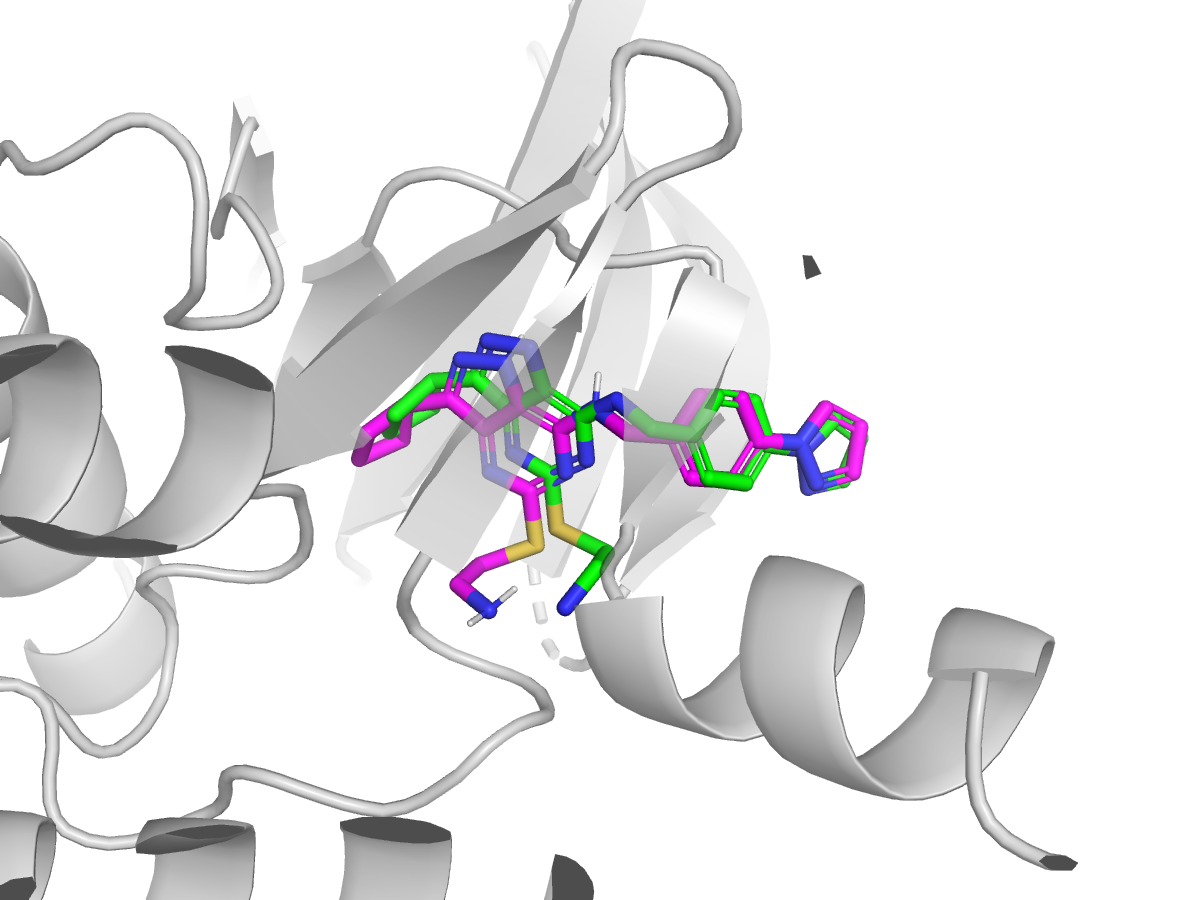
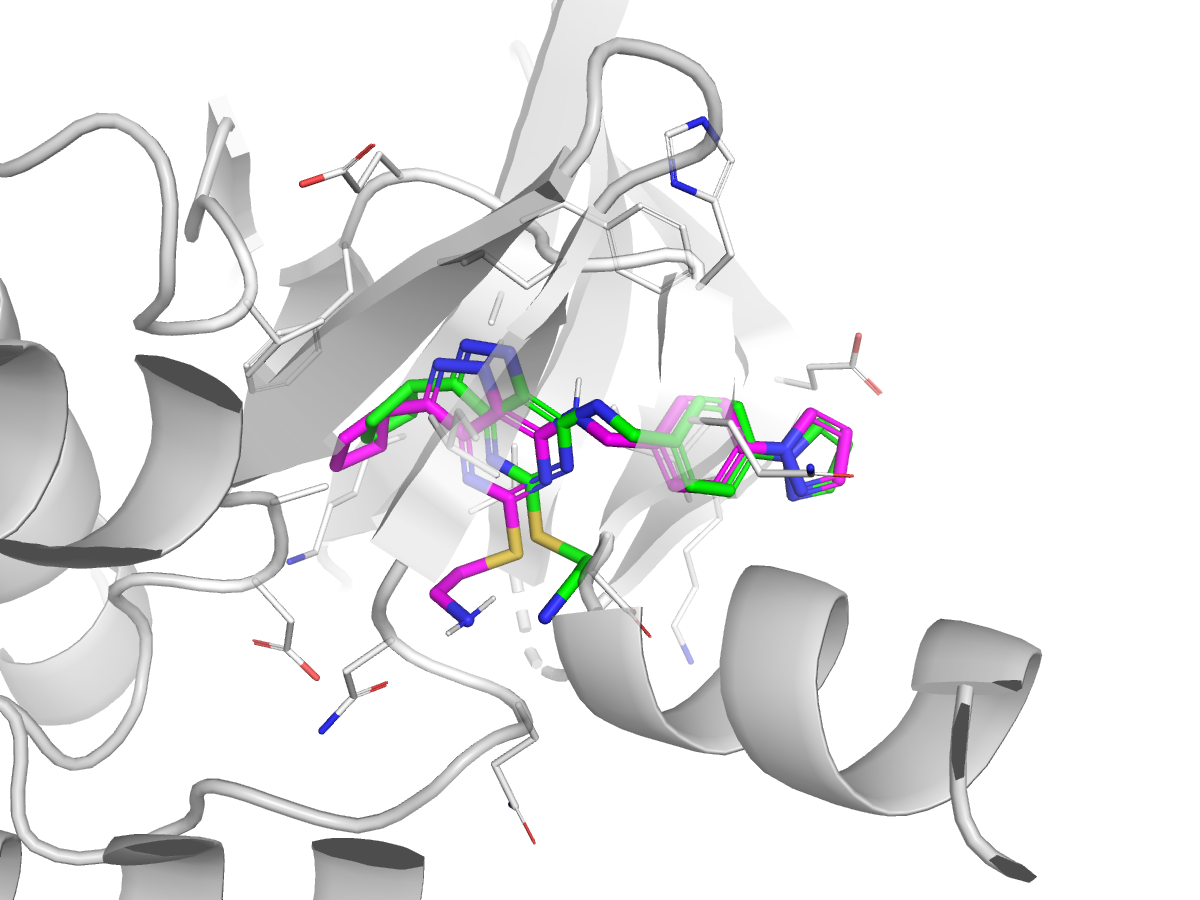
docs: add pocket side chains to pose comparison figure
Show binding-pocket residues (within 5 A of the crystal ligand) as thin
white sticks to give viewers the binding-site context. Thicken the
ligand sticks (0.20 vs 0.10 for pocket) so green/magenta still pop.

Framing change: zoom on the crystal ligand only (not the union of both
ligands). Keeps the pocket at usable scale in all 4 panels, at the cost
of the AF3 low-sim panel showing the empty native pocket (the predicted
pose is 38 A away, off-screen). The caption/RMSD number carries the
"AF3 hallucinated" story; the visual now clearly shows where the ligand
SHOULD have gone.

diff --git a/README.md b/README.md
@@ -41,7 +41,7 @@ The **generalization gap (Δ)** is the success-rate difference between the highe
 
 ### Pose Comparison: Co-folding vs Hybrid in Two Similarity Regimes
 
-Predicted poses (magenta sticks) overlaid on the crystal ligand (green sticks) and receptor (grey cartoon) for one **high-similarity** target (`7qhl__1__1.A__1.E`, SuCOS = 85.2) and one **low-similarity** target (`8cfb__1__1.A__1.L`, SuCOS = 3.0). AF3's predicted protein is aligned to the crystal receptor before showing only its ligand.
+Predicted poses (magenta sticks) overlaid on the crystal ligand (green sticks) and receptor (grey cartoon) for one **high-similarity** target (`7qhl__1__1.A__1.E`, SuCOS = 85.2) and one **low-similarity** target (`8cfb__1__1.A__1.L`, SuCOS = 3.0). Binding-pocket residues within 5 Å of the crystal ligand are drawn as thin white sticks for context. AF3's predicted protein is aligned to the crystal receptor before showing only its ligand; panels are framed on the native binding pocket, so AF3's low-sim pose is off-screen (placed ≈38 Å away, see caption below).
 
 | | High similarity (SuCOS 85.2) | Low similarity (SuCOS 3.0) |
 |---|---|---|

diff --git a/docs/figures/README.md b/docs/figures/README.md
@@ -11,7 +11,7 @@ Visualizations referenced by the top-level `README.md`.
 | `af3_low_sim.png`    | AlphaFold3 | Low (SuCOS 3.0)   | `8cfb__1__1.A__1.L` |
 | `gnina_low_sim.png`  | GNINA      | Low (SuCOS 3.0)   | `8cfb__1__1.A__1.L` |
 
-Predicted ligand: **magenta sticks**. Crystal ligand: **green sticks**. Receptor: **grey cartoon**.
+Predicted ligand: **magenta sticks**. Crystal ligand: **green sticks**. Receptor: **grey cartoon**. Binding-pocket residues (within 5 Å of the crystal ligand): **thin white sticks**. Panels are framed on the native binding pocket — for the AF3 low-sim case the predicted ligand is ~38 Å away and therefore off-screen.
 
 ## How to regenerate
 
